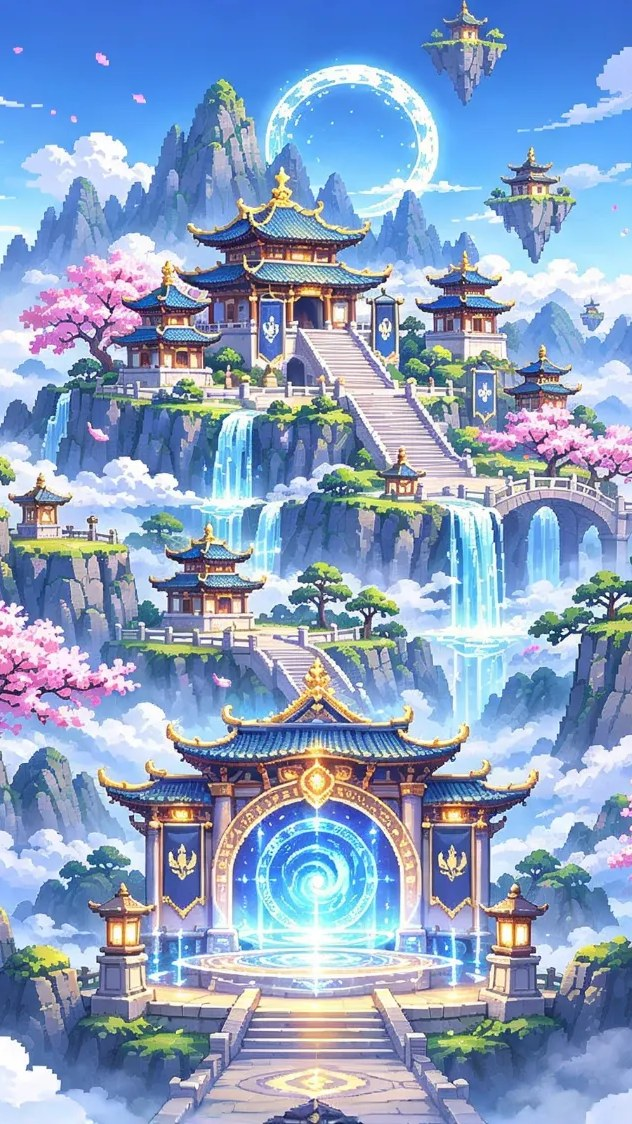
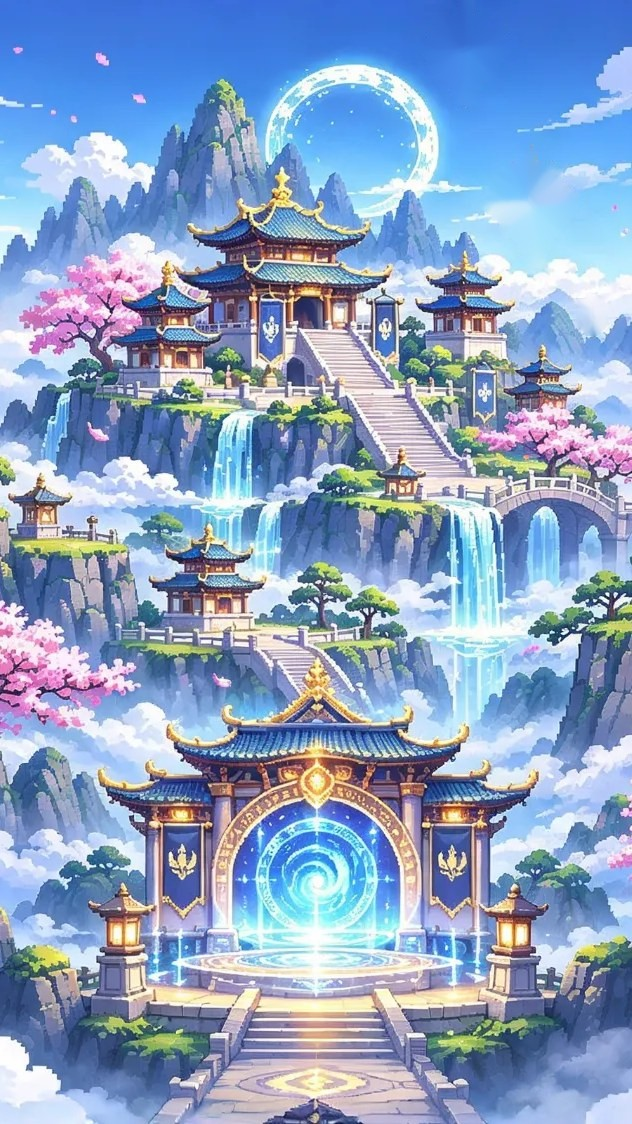
Lobby dọc: hoạt ảnh nền (đảo bay, thác, mây, cánh hoa)
Claude-Session: https://claude.ai/code/session_014A94BHnyL4tu48AS77QbVM

Changed region(s): [[0.7516, 0.1246, 0.932, 0.2491], [0.6614, 0.0, 0.8117, 0.0934], [0.9019, 0.2491, 0.962, 0.3114]]

diff --git a/src/ui/styles.css b/src/ui/styles.css
@@ -49,7 +49,7 @@
 /* hoạt ảnh nền (src/ui/sectFx.ts): canvas phủ trong suốt, không chặn bấm */
 .sect-fx { position: absolute; inset: 0; width: 100%; height: 100%; pointer-events: none; }
 /* màn hình dọc dùng bản 9:16 — tỉ lệ + vị trí phải khớp SECT trong Hub.ts */
-@media (max-aspect-ratio: 1/1) { .sect { background-image: url('/ui/bg_lobby_tall.jpg?v=1'); background-position: 50% 100%; } .menu .sect { background-image: url('/ui/bg_menu_tall.jpg?v=1'); background-position: 50% 50%; } }
+@media (max-aspect-ratio: 1/1) { .sect { background-image: url('/ui/bg_lobby_tall.jpg?v=2'); background-position: 50% 100%; } .menu .sect { background-image: url('/ui/bg_menu_tall.jpg?v=1'); background-position: 50% 50%; } }
 /* khung viền vàng pixel art (9 mảnh, mỗi góc 8px ảnh → 16px màn hình) */
 .fr { border: 34px solid transparent; border-image: url('/ui/k_panel9.png?v=2') 190 fill / 34px / 0 stretch; }
 .hero-sprite { --s: 3; flex-shrink: 0; width: calc(58px * var(--s)); height: calc(106px * var(--s));

diff --git a/src/config/sectFx.ts b/src/config/sectFx.ts
@@ -32,4 +32,13 @@ export const SECT_FX: Record<string, SectFxDef> = {
     qi: { src: 'bg_lobby_wide_qi', x: 153, y: 503, w: 1807, h: 621 },
     clouds: [[1075, -60, 760, 70], [1080, 1240, 2060, 70], [560, -40, 380, 45], [330, 1500, 2040, 50], [70, -60, 900, 55]],
   },
+  lobby_tall: { w: 632, h: 1124, posX: 0.5, posY: 1,
+    islands: [
+      { src: 'bg_lobby_tall_i0', x: 408, y: 0, w: 114, h: 114 },
+      { src: 'bg_lobby_tall_i1', x: 478, y: 140, w: 104, h: 128 },
+      { src: 'bg_lobby_tall_i2', x: 576, y: 290, w: 34, h: 48 },
+    ],
+    fall: { src: 'bg_lobby_tall_fall', x: 42, y: 383, w: 522, h: 259 },
+    clouds: [[150, -40, 260, 40], [470, -40, 220, 35], [700, 440, 680, 40], [1085, -40, 200, 40]],
+  },
 };

diff --git a/tools/art/sect_fx.py b/tools/art/sect_fx.py
@@ -27,6 +27,11 @@ BG = {
                (230, 635, 290, 910), (18, 615, 60, 700), (402, 440, 424, 575), (1520, 350, 1550, 470)],
         qi_skip=[(0, 0, 2000, 235), (860, 770, 1150, 970)],             # trời (viền mây, vầng trăng) + cổng truyền tống (đã có xoáy riêng)
     ),
+    'bg_lobby_tall': dict(
+        islands=[(408, 0, 522, 114), (478, 140, 582, 268), (576, 290, 610, 338)],
+        falls=[(212, 408, 252, 500), (198, 500, 242, 555), (252, 500, 282, 580), (448, 500, 502, 640), (528, 505, 562, 600), (44, 385, 78, 455)],
+        qi_skip=None,                                                   # bản dọc không có suối linh khí (chỉ cổng truyền tống)
+    ),
 }
 
 
@@ -102,17 +107,24 @@ def main():
         for x0, y0, x1, y1 in cfg['falls']:
             fall[y0:y1, x0:x1] = water[y0:y1, x0:x1] * 255
         fall = cv2.GaussianBlur(fall, (0, 0), 0.7)
-        qi = ((g > 190) & (b > 215) & (r < 150) & (g - r > 70)).astype(np.uint8) * 255
-        for x0, y0, x1, y1 in cfg['qi_skip'] + cfg['falls']:
-            qi[y0:y1, x0:x1] = 0
-        k, lab, st, _ = cv2.connectedComponentsWithStats(qi)                # bỏ đốm lẻ (< 12 điểm ảnh)
-        qi = np.where(np.isin(lab, [i for i in range(1, k) if st[i, cv2.CC_STAT_AREA] >= 12]), 255, 0).astype(np.uint8)
-        qi = cv2.GaussianBlur(cv2.dilate(qi, np.ones((3, 3), np.uint8)), (0, 0), 1.2)
-        for key, m in (('fall', fall), ('qi', qi)):
+        masks = [('fall', fall)]
+        if cfg['qi_skip'] is not None:
+            masks.append(('qi', qi_mask(b, g, r, cfg)))
+        for key, m in masks:
             x, y, w, h = save_mask(m, os.path.join(OUT, f'{name}_{key}.png'))
             ts.append(f"    {key}: {{ src: '{name}_{key}', x: {x}, y: {y}, w: {w}, h: {h} }},")
         ts.append('  },')
         print('\n'.join(ts))
+
+
+def qi_mask(b, g, r, cfg):
+    """Dòng suối linh khí: xanh ngọc đậm, sáng (bỏ trời, cổng truyền tống, thác)"""
+    qi = ((g > 190) & (b > 215) & (r < 150) & (g - r > 70)).astype(np.uint8) * 255
+    for x0, y0, x1, y1 in cfg['qi_skip'] + cfg['falls']:
+        qi[y0:y1, x0:x1] = 0
+    k, lab, st, _ = cv2.connectedComponentsWithStats(qi)                # bỏ đốm lẻ (< 12 điểm ảnh)
+    qi = np.where(np.isin(lab, [i for i in range(1, k) if st[i, cv2.CC_STAT_AREA] >= 12]), 255, 0).astype(np.uint8)
+    return cv2.GaussianBlur(cv2.dilate(qi, np.ones((3, 3), np.uint8)), (0, 0), 1.2)
 
 
 if __name__ == '__main__':
